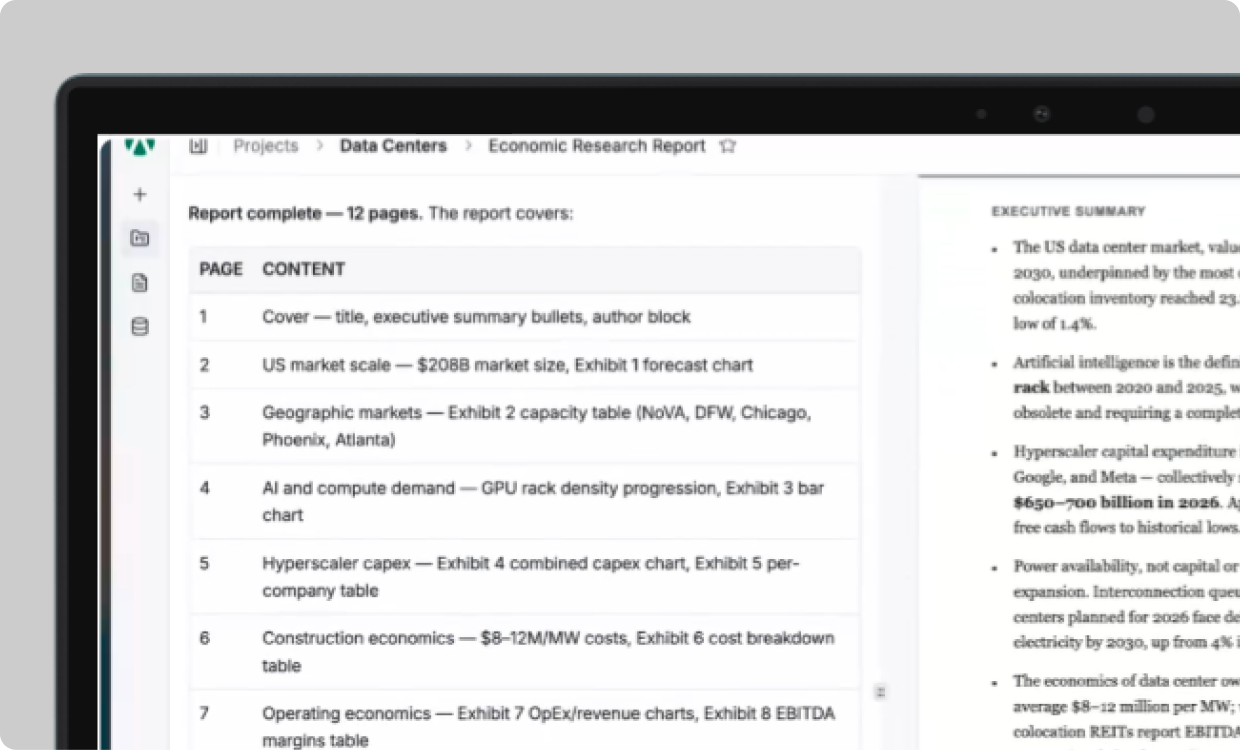
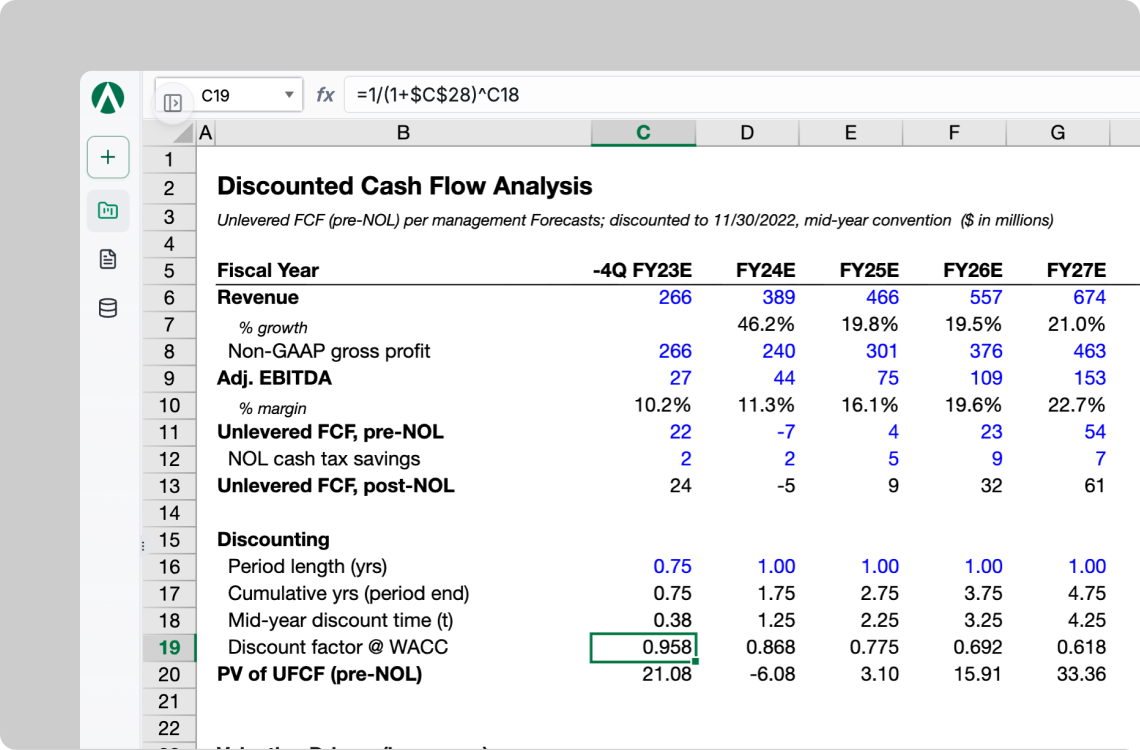
HTML Final V1

diff --git a/pages/accounting/accounting.html b/pages/accounting/accounting.html
@@ -47,7 +47,7 @@
                     </div>
                 </div>
                 <div class="hero-right" data-reveal="zoom" style="--reveal-delay: 0.5s">
-                    <img src="/assets/images/finance/hero/finance-hero.png" alt="Dashboard Interface"
+                    <img src="/assets/images/accounting/hero/accounting-hero.png" alt="Dashboard Interface"
                         class="hero-image" />
                 </div>
             </div>
@@ -244,8 +244,11 @@
                     <p class="insight-desc" data-reveal="true" style="--reveal-delay: 0.4s">You review the work. You
                         verify the sources. The judgment stays with you.</p>
                 </div>
-                <div class="insight-right">
-                    <!-- Placeholder container based on design -->
+                <div class="insight-right" style="padding: 0; background: transparent; border: none; overflow: hidden;">
+                    <video autoplay loop muted playsinline style="width: 100%; object-fit: cover; border-radius: 24px;">
+                        <source src="/assets/images/finance/source/source.mov">
+                        Your browser does not support the video tag.
+                    </video>
                 </div>
             </div>
         </section>

diff --git a/pages/compliance/compliance.html b/pages/compliance/compliance.html
@@ -48,7 +48,7 @@
                     </div>
                 </div>
                 <div class="hero-right" data-reveal="zoom" style="--reveal-delay: 0.5s">
-                    <img src="/assets/images/finance/hero/finance-hero.png" alt="Dashboard Interface"
+                    <img src="/assets/images/compliance/hero/compliance-hero.png" alt="Dashboard Interface"
                         class="hero-image" />
                 </div>
             </div>
@@ -247,8 +247,11 @@
                     <!-- <p class="insight-desc" data-reveal="true" style="--reveal-delay: 0.4s">You review the work. You
                         verify the sources. The judgment stays with you.</p> -->
                 </div>
-                <div class="insight-right">
-                    <!-- Placeholder container based on design -->
+                <div class="insight-right" style="padding: 0; background: transparent; border: none; overflow: hidden;">
+                    <video autoplay loop muted playsinline style="width: 100%; object-fit: cover; border-radius: 24px;">
+                        <source src="/assets/images/finance/source/source.mov">
+                        Your browser does not support the video tag.
+                    </video>
                 </div>
             </div>
         </section>

diff --git a/pages/consulting/consulting.html b/pages/consulting/consulting.html
@@ -47,7 +47,7 @@
                     </div>
                 </div>
                 <div class="hero-right" data-reveal="zoom" style="--reveal-delay: 0.5s">
-                    <img src="/assets/images/finance/hero/finance-hero.png" alt="Dashboard Interface"
+                    <img src="/assets/images/consulting/hero/consulting-hero.png" alt="Dashboard Interface"
                         class="hero-image" />
                 </div>
             </div>
@@ -247,8 +247,11 @@
                     <p class="insight-desc" data-reveal="true" style="--reveal-delay: 0.4s">You review the work. You
                         verify the sources. The judgment stays with you.</p>
                 </div>
-                <div class="insight-right">
-                    <!-- Placeholder container based on design -->
+                <div class="insight-right" style="padding: 0; background: transparent; border: none; overflow: hidden;">
+                    <video autoplay loop muted playsinline style="width: 100%; object-fit: cover; border-radius: 24px;">
+                        <source src="/assets/images/finance/source/source.mov">
+                        Your browser does not support the video tag.
+                    </video>
                 </div>
             </div>
         </section>

diff --git a/pages/finance/finance.html b/pages/finance/finance.html
@@ -261,8 +261,11 @@
                     <p class="insight-desc" data-reveal="true" style="--reveal-delay: 0.4s">You review the work. You
                         verify the sources. The judgment stays with you.</p>
                 </div>
-                <div class="insight-right">
-                    <!-- Placeholder container based on design -->
+                <div class="insight-right" style="padding: 0; background: transparent; border: none; overflow: hidden;">
+                    <video autoplay loop muted playsinline style="width: 100%; object-fit: cover; border-radius: 24px;">
+                        <source src="/assets/images/finance/source/source.mov">
+                        Your browser does not support the video tag.
+                    </video>
                 </div>
             </div>
         </section>

diff --git a/pages/accounting/accounting.css b/pages/accounting/accounting.css
@@ -972,7 +972,7 @@
     max-width: 1440px;
     padding: 100px;
     justify-content: space-between;
-    align-items: center;
+    align-items: flex-start;
     gap: 60px;
 }
 

diff --git a/pages/compliance/compliance.css b/pages/compliance/compliance.css
@@ -972,7 +972,7 @@
     max-width: 1440px;
     padding: 100px;
     justify-content: space-between;
-    align-items: center;
+    align-items: flex-start;
     gap: 60px;
 }
 

diff --git a/pages/consulting/consulting.css b/pages/consulting/consulting.css
@@ -972,7 +972,7 @@
     max-width: 1440px;
     padding: 100px;
     justify-content: space-between;
-    align-items: center;
+    align-items: flex-start;
     gap: 60px;
 }
 

diff --git a/pages/finance/finance.css b/pages/finance/finance.css
@@ -971,7 +971,7 @@
     max-width: 1440px;
     padding: 100px;
     justify-content: space-between;
-    align-items: center;
+    align-items: flex-start;
     gap: 60px;
 }
 